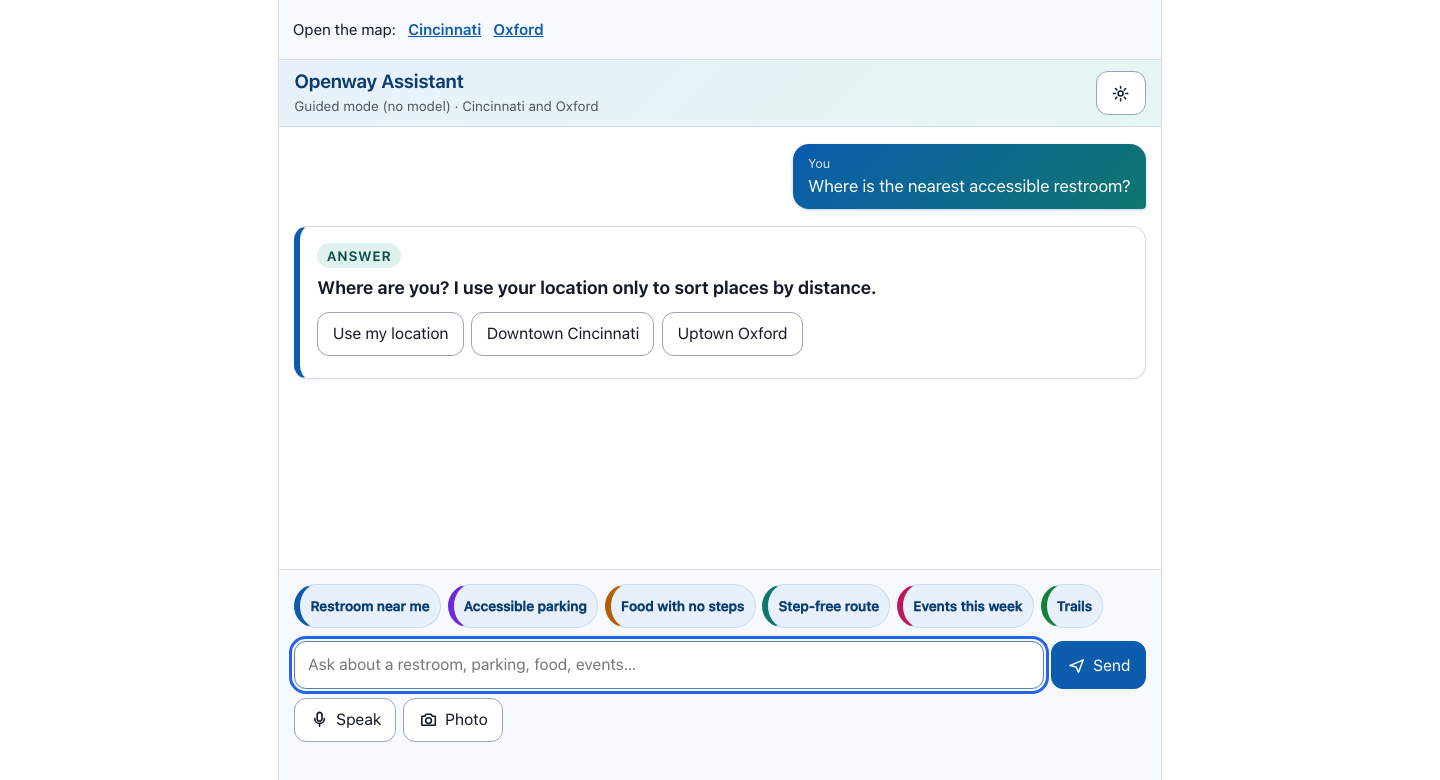
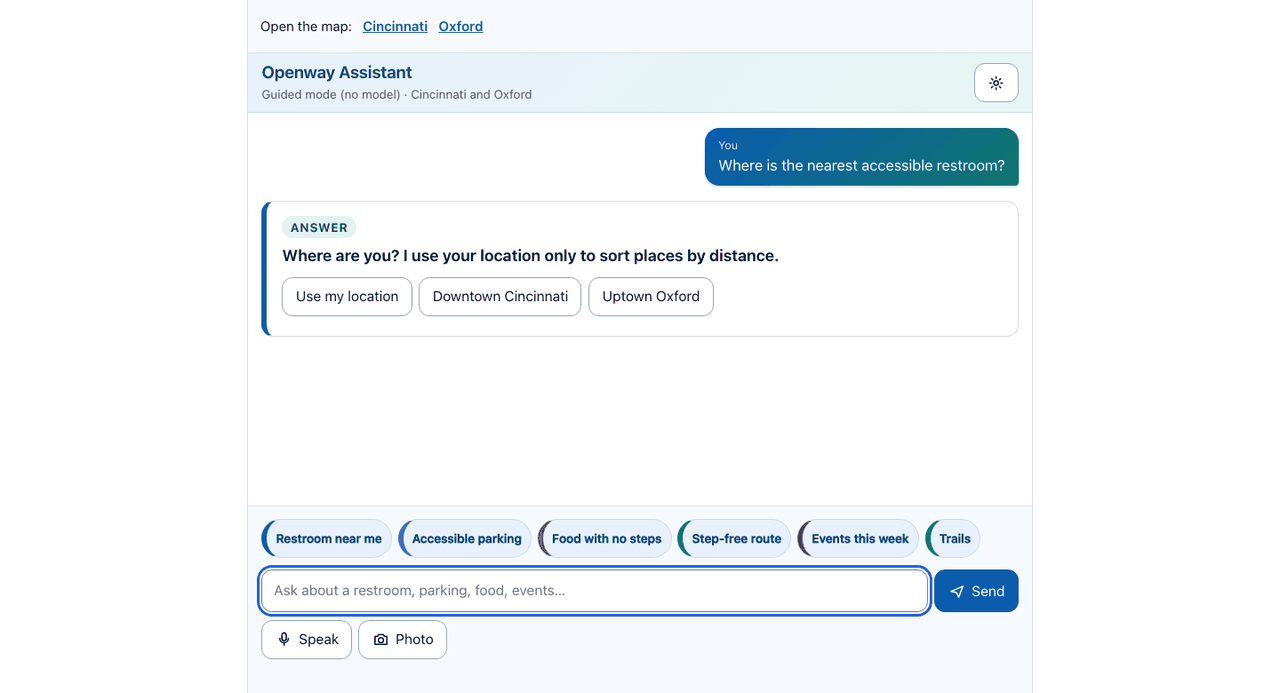
Shrink UX audit screenshots (12 MB to 2.3 MB, max width 1280), update filenames in the brief

diff --git a/docs/ux_brief.md b/docs/ux_brief.md
@@ -53,7 +53,7 @@ Scope reviewed: `data/map/cincinnati.html` at 1280, 800 and 390 px wide, the rep
 |---|---|---|
 | List-first structure: the list is the main interface, map markers are out of the tab order and the list holds the same content | `map_viewer.py:3-8`, `:302-303` | verified (code) |
 | Rating is never colour alone: coloured disc + symbol (✓ ~ ✕ ?) + word; Okabe-Ito palette | `map_viewer.py:20-25`, `phone_list_open.png` | verified |
-| Honest unknown state: "No information yet … does not mean it is inaccessible" in the legend | `map_viewer.py:30`, `tablet_legend.png` | verified |
+| Honest unknown state: "No information yet … does not mean it is inaccessible" in the legend | `map_viewer.py:30`, `tablet_legend.jpg` | verified |
 | Skip link, one `<h1>`, `lang="en"`, visible focus ring (5.17:1 on white) | `phone_home.png`; Playwright: lang `en`, h1 count 1 | verified |
 | Zoom to 200 percent: no horizontal scroll at 640x400 (= 1280 at 200%) | Playwright `scrollWidth <= innerWidth` | verified |
 | Reduced motion honoured; report form is a native `<dialog>` with focus return, error summary, field errors, draft saving, 16 px inputs | `map_viewer.py:196`, `report_ui.py:23-67`, `phone_report_form.png` | verified (code and screenshot) |
@@ -68,11 +68,11 @@ Severity: **H** blocks a primary task or fails WCAG 2.2 AA; **M** hurts task suc
 | # | Finding | Evidence | Sev | Tag |
 |---|---|---|---|---|
 | A1 | **Trust is invisible.** The trust engine rates every source and fact (tiers A–D, fact confidence), but the exported map data holds no confidence or tier field (`facts` keys: attribute, value, detail, quote, source, date) and the UI shows none. "Confirmed / reported / unknown", promised in `system_overview.md` 4.2, does not exist on screen. | GeoJSON keys; `grep` of `map_viewer.py` and `export_map.py` for confidence or tier finds nothing | H | verified |
-| A2 | **A single weak tag reads as "Accessible" and sorts first.** "Area History", rated Accessible only because OpenStreetMap carries `wheelchair=yes`, is the first card in "Most accessible first", with the same badge as the Aronoff Center, which has five quoted facts. Restroom shows "not known" beside a blue check. | `desktop_details.png`, `phone_list_open.png` | H | verified |
+| A2 | **A single weak tag reads as "Accessible" and sorts first.** "Area History", rated Accessible only because OpenStreetMap carries `wheelchair=yes`, is the first card in "Most accessible first", with the same badge as the Aronoff Center, which has five quoted facts. Restroom shows "not known" beside a blue check. | `desktop_details.jpg`, `phone_list_open.png` | H | verified |
 | A3 | **57% of places say "No information yet"** (271 of 479 Cincinnati places) and these are the default list tail with no way to act (no "ask the venue", no "help us fill this in" shortcut beyond Report). | GeoJSON counts: unknown 271, accessible 125, partial 73, not accessible 10 | M | verified |
 | A4 | **Control borders fail 3:1.** Search, selects and the text borders use `--line #eceef1` = **1.16:1** on white; ghost button border `#cfd4da` = **1.35:1** on its own fill; report radio options `#d1d5db` = **1.47:1**; unselected rating stars `#c4c8cf` = **1.68:1**; text-field and floating Report button borders `#9ca3af` = **2.54:1**. Matches improvement_plan 3.1. | contrast calculation from CSS values (`map_viewer.py:88,98,135,201`, `report_ui.py:22,34,41`) | H | verified |
 | A5 | **Tiny targets.** Header links "Switch to the Oxford map", "All places A–Z", "Accessible shows by date" are 15 px tall (WCAG 2.2 AA minimum is 24 px); the "Only places with accessibility information" checkbox is 13x13; Leaflet attribution link 12 px. Buttons are 32 px tall (card actions), 37 to 38 px (Near me, selects), below the repo's own 44 px rule. 99 controls on desktop are under 44 px. | Playwright `getBoundingClientRect` at 1280, 800, 390 | H (the 15, 13 and 12 px ones), M (the rest) | verified |
-| A6 | **Legend and floating Report button collide on tablets**, hiding the last legend rows ("Trail", "Group of nearby places") at 800 px. | `tablet_legend.png` | M | verified (improvement_plan 3.2) |
+| A6 | **Legend and floating Report button collide on tablets**, hiding the last legend rows ("Trail", "Group of nearby places") at 800 px. | `tablet_legend.jpg` | M | verified (improvement_plan 3.2) |
 | A7 | **A malformed link such as `#place=%` breaks start-up** with "The map could not be initialized". | Playwright: `URIError: URI malformed` in `decodeURIComponent`, status text shown | H | verified (improvement_plan 3.3) |
 | A8 | **Too many tab stops.** Four header links come before search; each card has four equal-weight buttons, so the 20 cards per page create about 80 stops before the pager. No primary action per card. | Playwright tab sequence (4 stops per card) | M | verified |
 | A9 | **Phone header uses about 15% of the screen** (130 of 844 px: title, three links wrapping to two lines, search, Near me), and the list is hidden behind a 64 px "Show list" strip; seeing results takes 1 tap, seeing details 2 more. | `phone_home.png`, `phone_list_open.png` | M | verified |
@@ -82,7 +82,7 @@ Severity: **H** blocks a primary task or fails WCAG 2.2 AA; **M** hurts task suc
 | A13 | **Duplicate and confusing actions.** "Directions" opens Google Maps in a new tab (leaves the site, sends the place location to Google); the in-site step-free route sits inside Details; both exist at once. | `map_viewer.py:493-494,581-582,526-531` | M | verified (code) |
 | A14 | **Errors not tied to fields for screen readers; error summary announced twice**; honeypot can discard a real report; "Anonymous" wording while user agent and page address are stored; closing while sending can create a duplicate; close button scrolls away; iOS bottom safe area; websites without `https://` become broken links. | improvement_plan 3.6, 3.7 | M | reported |
 | A15 | **Libraries load without integrity hashes or a content security policy.** | improvement_plan 3.5; no `integrity=` in the template | M | reported |
-| A16 | **Distances are straight line**, stated only in the status line after "Near me", while the card shows "750 feet southwest". A wheelchair user may read it as walking distance. | `map_viewer.py:753`, `desktop_details.png` | M | verified (code, text) |
+| A16 | **Distances are straight line**, stated only in the status line after "Near me", while the card shows "750 feet southwest". A wheelchair user may read it as walking distance. | `map_viewer.py:753`, `desktop_details.jpg` | M | verified (code, text) |
 | A17 | **Two page templates** (map page and text-only pages) with different CSS (text pages use `--ink #1b1f24`, link blue `#0a58ca`, 16 px) so the look differs between the two. | `places/cincinnati/*.html` head | L | verified |
 | A18 | **No keyboard or screen-reader testing record** for the map page (the report form has automated tests, `tests/test_report_ui.py`; the main map has none for accessibility). | `tests/` listing | M | verified (absence) |
 
@@ -94,11 +94,11 @@ Checked 2026-11-23 on the **live** pages (`zenaism.github.io/.../cincinnati.html
 |---|---|---|---|---|
 | 1 | Live location and heading | Location is read **once** (`getCurrentPosition`, high accuracy, 10 s timeout, 60 s cache). No `watchPosition`, no device orientation anywhere. The "you are here" dot never moves. Direction exists only as route words ("Head southeast on...") | `panel.js:626-633`, `map_viewer.py:842`; grep for `watchPosition` and `deviceorientation` finds 0 hits in source and in the live HTML | verified |
 | 2 | Favourites page | Hearts exist (`atlas-favs` in localStorage), a "Saved places (n)" filter in the list, saved places first in the route picker. **No dedicated page, no way to move them to another device, no warning if the browser clears storage** | `map_viewer.py:481-510`, `panel.js:481`; live HTML contains `atlas-favs` | verified (page absence), assumed (storage loss, see research) |
-| 3 | Left panel too full | Opening Details on "Area History" shows **1,598 characters** at once: rating, facts, quote, a facts table, a "Getting there" block with 3 notes, a full route (5 steps), star rating, text-page and copy-link. The top answer (entrance yes, restroom not known) is in the first 3 lines, then 10 more blocks follow | `live_desktop_details.png`; DOM text length measured | verified |
-| 4 | Gear emoji in chat settings | The Settings button is a custom SVG (a circle with 8 rays) that reads as a **sun or brightness symbol**, not a gear; 50x44 px, text label "Settings". Same on desktop Chrome (13-inch Mac, owner's setup) and phone. `⚙` is not in the page. So the owner's complaint stands: it is not a proper settings icon | `live_mac13_1440x780_map_chat.png`; `chat.js:28,77` | verified |
+| 3 | Left panel too full | Opening Details on "Area History" shows **1,598 characters** at once: rating, facts, quote, a facts table, a "Getting there" block with 3 notes, a full route (5 steps), star rating, text-page and copy-link. The top answer (entrance yes, restroom not known) is in the first 3 lines, then 10 more blocks follow | `live_desktop_details.jpg`; DOM text length measured | verified |
+| 4 | Gear emoji in chat settings | The Settings button is a custom SVG (a circle with 8 rays) that reads as a **sun or brightness symbol**, not a gear; 50x44 px, text label "Settings". Same on desktop Chrome (13-inch Mac, owner's setup) and phone. `⚙` is not in the page. So the owner's complaint stands: it is not a proper settings icon | `live_mac13_1440x780_map_chat.jpg`; `chat.js:28,77` | verified |
 | 5 | Chat answers are a wall of text | One answer to "nearest accessible restroom" is **1,465 characters**: a 4-line headline plus source sentence, then 3 full place cards (each with up to 3 fact lines, a source line and 3 buttons), then 5 more buttons (Read aloud, More detail, Sources, Show all on map, Report). A "More detail" toggle exists but only hides extras; the cards stay fully open | `live_phone_chat_answer.png`; button list measured | verified |
-| 6 | Chat bottom cut off | **Reproduced on the owner's setup** (Chrome, 13-inch Mac, viewport 1440x780 and 1280x680): in the map's chat panel the input area ends **60 px below the window** (bottom 840 in a 780 px window; 740 in 680), so the Speak and Photo buttons are cut off. 60 px = the page header height. The standalone Ask page is fine (last button 38 px above the edge). Cause is in CSS (`.ow` sets `height:100%`, which beats top/bottom). **A fix already exists** (committed on `feature/assistant` as 69cfc08, and uncommitted in the integration worktree) but is not deployed. That uncommitted change also shrinks panel buttons to 38 px, below the 44 px rule. iPhone Safari remains untested | `live_mac13_1440x780_map_chat.png`; `assistant.css` diff; web.dev for the toolbar case | verified |
-| 7 | Map shows every building on open | On first load on a phone: **26 icons plus about 20 cluster discs plus blue trail lines and a Report button** over the map; "479 places" in the sheet. Already clustered, but the opening view is busy and none of it answers a question yet | `live_phone_home.png`; DOM count of `.leaflet-marker-icon` | verified |
+| 6 | Chat bottom cut off | **Reproduced on the owner's setup** (Chrome, 13-inch Mac, viewport 1440x780 and 1280x680): in the map's chat panel the input area ends **60 px below the window** (bottom 840 in a 780 px window; 740 in 680), so the Speak and Photo buttons are cut off. 60 px = the page header height. The standalone Ask page is fine (last button 38 px above the edge). Cause is in CSS (`.ow` sets `height:100%`, which beats top/bottom). **A fix already exists** (committed on `feature/assistant` as 69cfc08, and uncommitted in the integration worktree) but is not deployed. That uncommitted change also shrinks panel buttons to 38 px, below the 44 px rule. iPhone Safari remains untested | `live_mac13_1440x780_map_chat.jpg`; `assistant.css` diff; web.dev for the toolbar case | verified |
+| 7 | Map shows every building on open | On first load on a phone: **26 icons plus about 20 cluster discs plus blue trail lines and a Report button** over the map; "479 places" in the sheet. Already clustered, but the opening view is busy and none of it answers a question yet | `live_phone_home.jpg`; DOM count of `.leaflet-marker-icon` | verified |
 | 8 | Voice recording too short | The recogniser is started with `continuous = false`, with no timer of our own (`voice.js:13`, `chat.js:429`). So it ends when the browser decides the speech has ended: a short pause in a long sentence stops it. There is no visible stop button state, no counter, no way to continue. The real device behaviour is what you reported; the cause here is from code and MDN | `voice.js:13`; MDN `continuous` page | cause verified in code; device behaviour reported by you |
 
 **New findings while checking (verified, live page, 390 px):**
